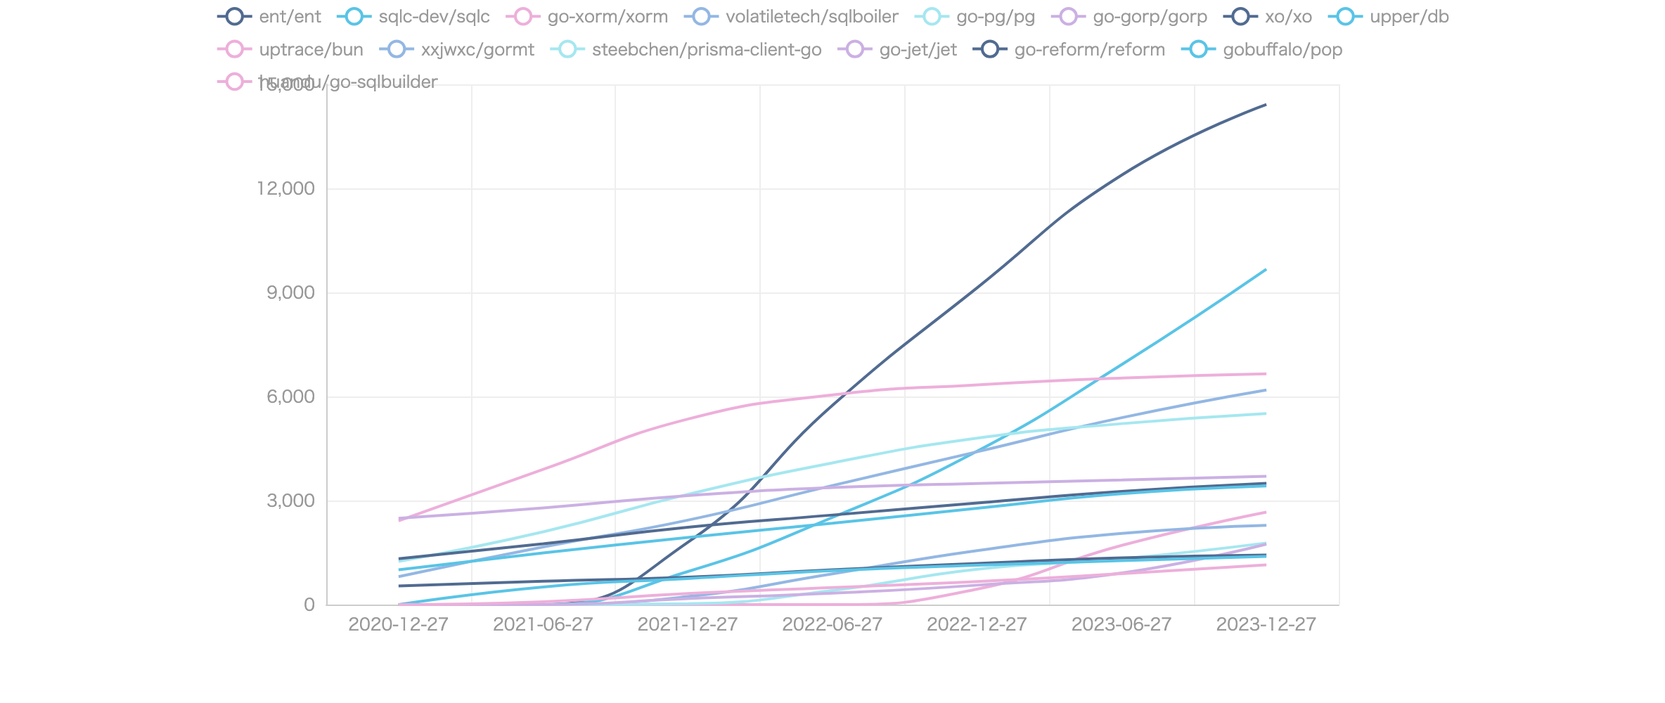
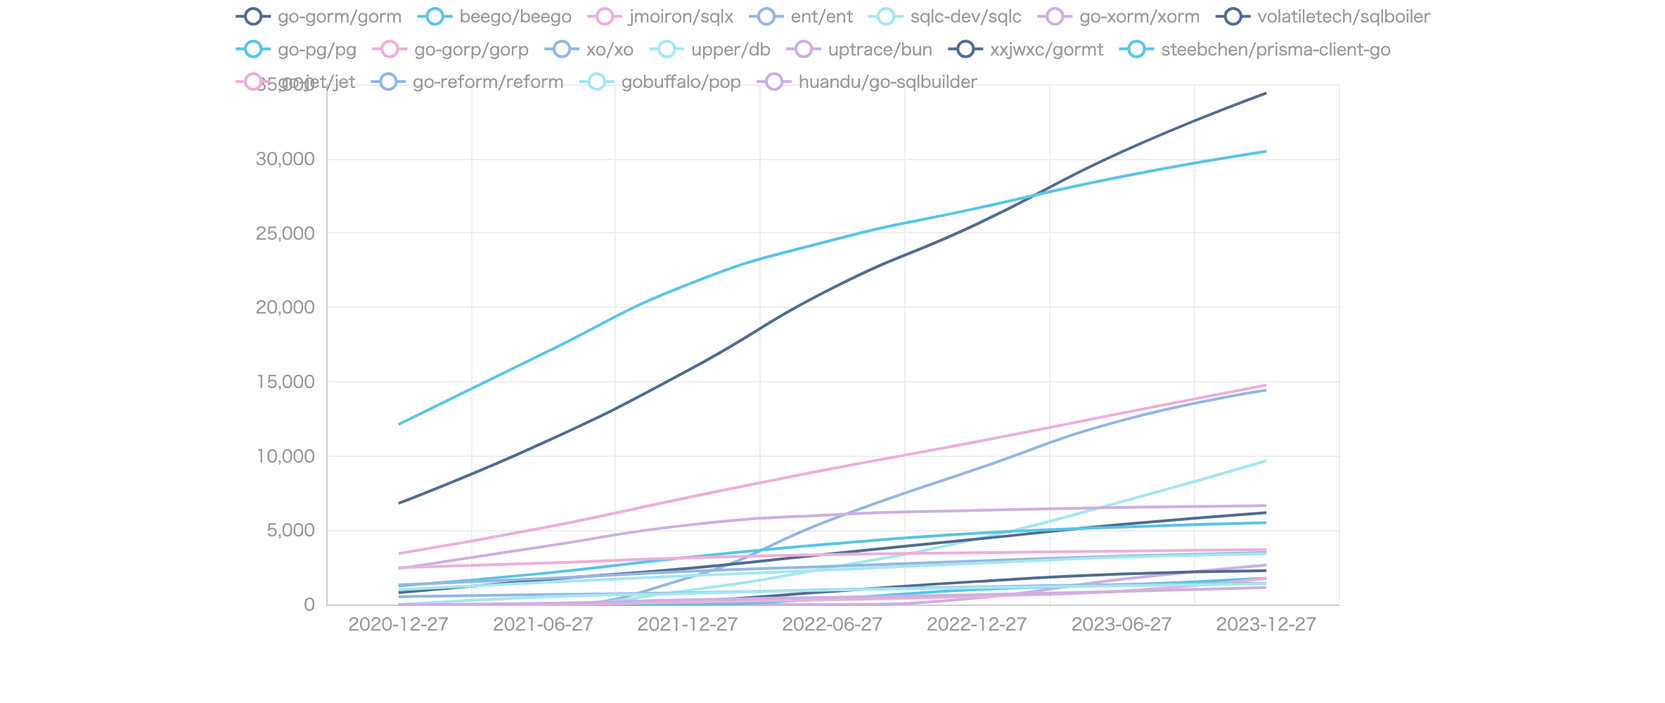
Update README.md

diff --git a/output/orm_chart.html b/output/orm_chart.html
@@ -10,20 +10,20 @@
 
 <body>
 <div class="container">
-    <div class="item" id="eJDDOTwpTecZ" style="width:900px;height:500px;"></div>
+    <div class="item" id="tvAAJPtRdupE" style="width:900px;height:500px;"></div>
 </div>
 
 <script type="text/javascript">
     "use strict";
-    let goecharts_eJDDOTwpTecZ = echarts.init(document.getElementById('eJDDOTwpTecZ'), "westeros");
-    let option_eJDDOTwpTecZ = {"dataset":{"source":null},"legend":{"show":true,"type":""},"series":[{"name":"ent/ent","type":"line","smooth":true,"connectNulls":false,"showSymbol":false,"waveAnimation":false,"renderLabelForZeroData":false,"selectedMode":false,"animation":false,"data":[{"value":0,"XAxisIndex":0,"YAxisIndex":0},{"value":0,"XAxisIndex":0,"YAxisIndex":0},{"value":1795,"XAxisIndex":0,"YAxisIndex":0},{"value":5747,"XAxisIndex":0,"YAxisIndex":0},{"value":9133,"XAxisIndex":0,"YAxisIndex":0},{"value":12385,"XAxisIndex":0,"YAxisIndex":0},{"value":14422,"XAxisIndex":0,"YAxisIndex":0}]},{"name":"sqlc-dev/sqlc","type":"line","smooth":true,"connectNulls":false,"showSymbol":false,"waveAnimation":false,"renderLabelForZeroData":false,"selectedMode":false,"animation":false,"data":[{"value":0,"XAxisIndex":0,"YAxisIndex":0},{"value":0,"XAxisIndex":0,"YAxisIndex":0},{"value":952,"XAxisIndex":0,"YAxisIndex":0},{"value":2514,"XAxisIndex":0,"YAxisIndex":0},{"value":4422,"XAxisIndex":0,"YAxisIndex":0},{"value":6923,"XAxisIndex":0,"YAxisIndex":0},{"value":9672,"XAxisIndex":0,"YAxisIndex":0}]},{"name":"go-xorm/xorm","type":"line","smooth":true,"connectNulls":false,"showSymbol":false,"waveAnimation":false,"renderLabelForZeroData":false,"selectedMode":false,"animation":false,"data":[{"value":2416,"XAxisIndex":0,"YAxisIndex":0},{"value":3898,"XAxisIndex":0,"YAxisIndex":0},{"value":5349,"XAxisIndex":0,"YAxisIndex":0},{"value":6045,"XAxisIndex":0,"YAxisIndex":0},{"value":6335,"XAxisIndex":0,"YAxisIndex":0},{"value":6533,"XAxisIndex":0,"YAxisIndex":0},{"value":6653,"XAxisIndex":0,"YAxisIndex":0}]},{"name":"volatiletech/sqlboiler","type":"line","smooth":true,"connectNulls":false,"showSymbol":false,"waveAnimation":false,"renderLabelForZeroData":false,"selectedMode":false,"animation":false,"data":[{"value":805,"XAxisIndex":0,"YAxisIndex":0},{"value":1661,"XAxisIndex":0,"YAxisIndex":0},{"value":2435,"XAxisIndex":0,"YAxisIndex":0},{"value":3434,"XAxisIndex":0,"YAxisIndex":0},{"value":4406,"XAxisIndex":0,"YAxisIndex":0},{"value":5389,"XAxisIndex":0,"YAxisIndex":0},{"value":6189,"XAxisIndex":0,"YAxisIndex":0}]},{"name":"go-pg/pg","type":"line","smooth":true,"connectNulls":false,"showSymbol":false,"waveAnimation":false,"renderLabelForZeroData":false,"selectedMode":false,"animation":false,"data":[{"value":1248,"XAxisIndex":0,"YAxisIndex":0},{"value":2099,"XAxisIndex":0,"YAxisIndex":0},{"value":3179,"XAxisIndex":0,"YAxisIndex":0},{"value":4086,"XAxisIndex":0,"YAxisIndex":0},{"value":4799,"XAxisIndex":0,"YAxisIndex":0},{"value":5217,"XAxisIndex":0,"YAxisIndex":0},{"value":5510,"XAxisIndex":0,"YAxisIndex":0}]},{"name":"go-gorp/gorp","type":"line","smooth":true,"connectNulls":false,"showSymbol":false,"waveAnimation":false,"renderLabelForZeroData":false,"selectedMode":false,"animation":false,"data":[{"value":2487,"XAxisIndex":0,"YAxisIndex":0},{"value":2787,"XAxisIndex":0,"YAxisIndex":0},{"value":3144,"XAxisIndex":0,"YAxisIndex":0},{"value":3374,"XAxisIndex":0,"YAxisIndex":0},{"value":3493,"XAxisIndex":0,"YAxisIndex":0},{"value":3592,"XAxisIndex":0,"YAxisIndex":0},{"value":3701,"XAxisIndex":0,"YAxisIndex":0}]},{"name":"xo/xo","type":"line","smooth":true,"connectNulls":false,"showSymbol":false,"waveAnimation":false,"renderLabelForZeroData":false,"selectedMode":false,"animation":false,"data":[{"value":1322,"XAxisIndex":0,"YAxisIndex":0},{"value":1754,"XAxisIndex":0,"YAxisIndex":0},{"value":2232,"XAxisIndex":0,"YAxisIndex":0},{"value":2582,"XAxisIndex":0,"YAxisIndex":0},{"value":2928,"XAxisIndex":0,"YAxisIndex":0},{"value":3262,"XAxisIndex":0,"YAxisIndex":0},{"value":3496,"XAxisIndex":0,"YAxisIndex":0}]},{"name":"upper/db","type":"line","smooth":true,"connectNulls":false,"showSymbol":false,"waveAnimation":false,"renderLabelForZeroData":false,"selectedMode":false,"animation":false,"data":[{"value":1002,"XAxisIndex":0,"YAxisIndex":0},{"value":1490,"XAxisIndex":0,"YAxisIndex":0},{"value":1934,"XAxisIndex":0,"YAxisIndex":0},{"value":2347,"XAxisIndex":0,"YAxisIndex":0},{"value":2776,"XAxisIndex":0,"YAxisIndex":0},{"value":3196,"XAxisIndex":0,"YAxisIndex":0},{"value":3422,"XAxisIndex":0,"YAxisIndex":0}]},{"name":"uptrace/bun","type":"line","smooth":true,"connectNulls":false,"showSymbol":false,"waveAnimation":false,"renderLabelForZeroData":false,"selectedMode":false,"animation":false,"data":[{"value":0,"XAxisIndex":0,"YAxisIndex":0},{"value":0,"XAxisIndex":0,"YAxisIndex":0},{"value":0,"XAxisIndex":0,"YAxisIndex":0},{"value":0,"XAxisIndex":0,"YAxisIndex":0},{"value":447,"XAxisIndex":0,"YAxisIndex":0},{"value":1707,"XAxisIndex":0,"YAxisIndex":0},{"value":2665,"XAxisIndex":0,"YAxisIndex":0}]},{"name":"xxjwxc/gormt","type":"line","smooth":true,"connectNulls":false,"showSymbol":false,"waveAnimation":false,"renderLabelForZeroData":false,"selectedMode":false,"animation":false,"data":[{"value":0,"XAxisIndex":0,"YAxisIndex":0},{"value":0,"XAxisIndex":0,"YAxisIndex":0},{"value":231,"XAxisIndex":0,"YAxisIndex":0},{"value":887,"XAxisIndex":0,"YAxisIndex":0},{"value":1555,"XAxisIndex":0,"YAxisIndex":0},{"value":2052,"XAxisIndex":0,"YAxisIndex":0},{"value":2284,"XAxisIndex":0,"YAxisIndex":0}]},{"name":"steebchen/prisma-client-go","type":"line","smooth":true,"connectNulls":false,"showSymbol":false,"waveAnimation":false,"renderLabelForZeroData":false,"selectedMode":false,"animation":false,"data":[{"value":0,"XAxisIndex":0,"YAxisIndex":0},{"value":0,"XAxisIndex":0,"YAxisIndex":0},{"value":25,"XAxisIndex":0,"YAxisIndex":0},{"value":405,"XAxisIndex":0,"YAxisIndex":0},{"value":1019,"XAxisIndex":0,"YAxisIndex":0},{"value":1322,"XAxisIndex":0,"YAxisIndex":0},{"value":1776,"XAxisIndex":0,"YAxisIndex":0}]},{"name":"go-jet/jet","type":"line","smooth":true,"connectNulls":false,"showSymbol":false,"waveAnimation":false,"renderLabelForZeroData":false,"selectedMode":false,"animation":false,"data":[{"value":0,"XAxisIndex":0,"YAxisIndex":0},{"value":0,"XAxisIndex":0,"YAxisIndex":0},{"value":171,"XAxisIndex":0,"YAxisIndex":0},{"value":329,"XAxisIndex":0,"YAxisIndex":0},{"value":560,"XAxisIndex":0,"YAxisIndex":0},{"value":912,"XAxisIndex":0,"YAxisIndex":0},{"value":1744,"XAxisIndex":0,"YAxisIndex":0}]},{"name":"go-reform/reform","type":"line","smooth":true,"connectNulls":false,"showSymbol":false,"waveAnimation":false,"renderLabelForZeroData":false,"selectedMode":false,"animation":false,"data":[{"value":535,"XAxisIndex":0,"YAxisIndex":0},{"value":672,"XAxisIndex":0,"YAxisIndex":0},{"value":793,"XAxisIndex":0,"YAxisIndex":0},{"value":1002,"XAxisIndex":0,"YAxisIndex":0},{"value":1185,"XAxisIndex":0,"YAxisIndex":0},{"value":1347,"XAxisIndex":0,"YAxisIndex":0},{"value":1427,"XAxisIndex":0,"YAxisIndex":0}]},{"name":"gobuffalo/pop","type":"line","smooth":true,"connectNulls":false,"showSymbol":false,"waveAnimation":false,"renderLabelForZeroData":false,"selectedMode":false,"animation":false,"data":[{"value":0,"XAxisIndex":0,"YAxisIndex":0},{"value":509,"XAxisIndex":0,"YAxisIndex":0},{"value":750,"XAxisIndex":0,"YAxisIndex":0},{"value":980,"XAxisIndex":0,"YAxisIndex":0},{"value":1134,"XAxisIndex":0,"YAxisIndex":0},{"value":1267,"XAxisIndex":0,"YAxisIndex":0},{"value":1390,"XAxisIndex":0,"YAxisIndex":0}]},{"name":"huandu/go-sqlbuilder","type":"line","smooth":true,"connectNulls":false,"showSymbol":false,"waveAnimation":false,"renderLabelForZeroData":false,"selectedMode":false,"animation":false,"data":[{"value":0,"XAxisIndex":0,"YAxisIndex":0},{"value":81,"XAxisIndex":0,"YAxisIndex":0},{"value":317,"XAxisIndex":0,"YAxisIndex":0},{"value":490,"XAxisIndex":0,"YAxisIndex":0},{"value":663,"XAxisIndex":0,"YAxisIndex":0},{"value":891,"XAxisIndex":0,"YAxisIndex":0},{"value":1145,"XAxisIndex":0,"YAxisIndex":0}]}],"title":{},"tooltip":{"show":false},"xAxis":[{"data":["2020-12-27","2021-06-27","2021-12-27","2022-06-27","2022-12-27","2023-06-27","2023-12-27"]}],"yAxis":[{}]}
+    let goecharts_tvAAJPtRdupE = echarts.init(document.getElementById('tvAAJPtRdupE'), "westeros");
+    let option_tvAAJPtRdupE = {"dataset":{"source":null},"legend":{"show":true,"type":""},"series":[{"name":"go-gorm/gorm","type":"line","smooth":true,"connectNulls":false,"showSymbol":false,"waveAnimation":false,"renderLabelForZeroData":false,"selectedMode":false,"animation":false,"data":[{"value":6811,"XAxisIndex":0,"YAxisIndex":0},{"value":10882,"XAxisIndex":0,"YAxisIndex":0},{"value":15750,"XAxisIndex":0,"YAxisIndex":0},{"value":21294,"XAxisIndex":0,"YAxisIndex":0},{"value":25607,"XAxisIndex":0,"YAxisIndex":0},{"value":30458,"XAxisIndex":0,"YAxisIndex":0},{"value":34418,"XAxisIndex":0,"YAxisIndex":0}]},{"name":"beego/beego","type":"line","smooth":true,"connectNulls":false,"showSymbol":false,"waveAnimation":false,"renderLabelForZeroData":false,"selectedMode":false,"animation":false,"data":[{"value":12120,"XAxisIndex":0,"YAxisIndex":0},{"value":16884,"XAxisIndex":0,"YAxisIndex":0},{"value":21535,"XAxisIndex":0,"YAxisIndex":0},{"value":24522,"XAxisIndex":0,"YAxisIndex":0},{"value":26668,"XAxisIndex":0,"YAxisIndex":0},{"value":28796,"XAxisIndex":0,"YAxisIndex":0},{"value":30497,"XAxisIndex":0,"YAxisIndex":0}]},{"name":"jmoiron/sqlx","type":"line","smooth":true,"connectNulls":false,"showSymbol":false,"waveAnimation":false,"renderLabelForZeroData":false,"selectedMode":false,"animation":false,"data":[{"value":3433,"XAxisIndex":0,"YAxisIndex":0},{"value":5164,"XAxisIndex":0,"YAxisIndex":0},{"value":7203,"XAxisIndex":0,"YAxisIndex":0},{"value":9148,"XAxisIndex":0,"YAxisIndex":0},{"value":10958,"XAxisIndex":0,"YAxisIndex":0},{"value":12884,"XAxisIndex":0,"YAxisIndex":0},{"value":14770,"XAxisIndex":0,"YAxisIndex":0}]},{"name":"ent/ent","type":"line","smooth":true,"connectNulls":false,"showSymbol":false,"waveAnimation":false,"renderLabelForZeroData":false,"selectedMode":false,"animation":false,"data":[{"value":0,"XAxisIndex":0,"YAxisIndex":0},{"value":0,"XAxisIndex":0,"YAxisIndex":0},{"value":1795,"XAxisIndex":0,"YAxisIndex":0},{"value":5747,"XAxisIndex":0,"YAxisIndex":0},{"value":9133,"XAxisIndex":0,"YAxisIndex":0},{"value":12386,"XAxisIndex":0,"YAxisIndex":0},{"value":14422,"XAxisIndex":0,"YAxisIndex":0}]},{"name":"sqlc-dev/sqlc","type":"line","smooth":true,"connectNulls":false,"showSymbol":false,"waveAnimation":false,"renderLabelForZeroData":false,"selectedMode":false,"animation":false,"data":[{"value":0,"XAxisIndex":0,"YAxisIndex":0},{"value":0,"XAxisIndex":0,"YAxisIndex":0},{"value":952,"XAxisIndex":0,"YAxisIndex":0},{"value":2514,"XAxisIndex":0,"YAxisIndex":0},{"value":4423,"XAxisIndex":0,"YAxisIndex":0},{"value":6923,"XAxisIndex":0,"YAxisIndex":0},{"value":9672,"XAxisIndex":0,"YAxisIndex":0}]},{"name":"go-xorm/xorm","type":"line","smooth":true,"connectNulls":false,"showSymbol":false,"waveAnimation":false,"renderLabelForZeroData":false,"selectedMode":false,"animation":false,"data":[{"value":2417,"XAxisIndex":0,"YAxisIndex":0},{"value":3898,"XAxisIndex":0,"YAxisIndex":0},{"value":5350,"XAxisIndex":0,"YAxisIndex":0},{"value":6045,"XAxisIndex":0,"YAxisIndex":0},{"value":6335,"XAxisIndex":0,"YAxisIndex":0},{"value":6533,"XAxisIndex":0,"YAxisIndex":0},{"value":6653,"XAxisIndex":0,"YAxisIndex":0}]},{"name":"volatiletech/sqlboiler","type":"line","smooth":true,"connectNulls":false,"showSymbol":false,"waveAnimation":false,"renderLabelForZeroData":false,"selectedMode":false,"animation":false,"data":[{"value":805,"XAxisIndex":0,"YAxisIndex":0},{"value":1661,"XAxisIndex":0,"YAxisIndex":0},{"value":2435,"XAxisIndex":0,"YAxisIndex":0},{"value":3434,"XAxisIndex":0,"YAxisIndex":0},{"value":4406,"XAxisIndex":0,"YAxisIndex":0},{"value":5389,"XAxisIndex":0,"YAxisIndex":0},{"value":6189,"XAxisIndex":0,"YAxisIndex":0}]},{"name":"go-pg/pg","type":"line","smooth":true,"connectNulls":false,"showSymbol":false,"waveAnimation":false,"renderLabelForZeroData":false,"selectedMode":false,"animation":false,"data":[{"value":1248,"XAxisIndex":0,"YAxisIndex":0},{"value":2099,"XAxisIndex":0,"YAxisIndex":0},{"value":3179,"XAxisIndex":0,"YAxisIndex":0},{"value":4086,"XAxisIndex":0,"YAxisIndex":0},{"value":4799,"XAxisIndex":0,"YAxisIndex":0},{"value":5217,"XAxisIndex":0,"YAxisIndex":0},{"value":5510,"XAxisIndex":0,"YAxisIndex":0}]},{"name":"go-gorp/gorp","type":"line","smooth":true,"connectNulls":false,"showSymbol":false,"waveAnimation":false,"renderLabelForZeroData":false,"selectedMode":false,"animation":false,"data":[{"value":2487,"XAxisIndex":0,"YAxisIndex":0},{"value":2787,"XAxisIndex":0,"YAxisIndex":0},{"value":3144,"XAxisIndex":0,"YAxisIndex":0},{"value":3374,"XAxisIndex":0,"YAxisIndex":0},{"value":3493,"XAxisIndex":0,"YAxisIndex":0},{"value":3592,"XAxisIndex":0,"YAxisIndex":0},{"value":3701,"XAxisIndex":0,"YAxisIndex":0}]},{"name":"xo/xo","type":"line","smooth":true,"connectNulls":false,"showSymbol":false,"waveAnimation":false,"renderLabelForZeroData":false,"selectedMode":false,"animation":false,"data":[{"value":1322,"XAxisIndex":0,"YAxisIndex":0},{"value":1754,"XAxisIndex":0,"YAxisIndex":0},{"value":2232,"XAxisIndex":0,"YAxisIndex":0},{"value":2582,"XAxisIndex":0,"YAxisIndex":0},{"value":2928,"XAxisIndex":0,"YAxisIndex":0},{"value":3262,"XAxisIndex":0,"YAxisIndex":0},{"value":3496,"XAxisIndex":0,"YAxisIndex":0}]},{"name":"upper/db","type":"line","smooth":true,"connectNulls":false,"showSymbol":false,"waveAnimation":false,"renderLabelForZeroData":false,"selectedMode":false,"animation":false,"data":[{"value":1002,"XAxisIndex":0,"YAxisIndex":0},{"value":1490,"XAxisIndex":0,"YAxisIndex":0},{"value":1934,"XAxisIndex":0,"YAxisIndex":0},{"value":2347,"XAxisIndex":0,"YAxisIndex":0},{"value":2776,"XAxisIndex":0,"YAxisIndex":0},{"value":3196,"XAxisIndex":0,"YAxisIndex":0},{"value":3422,"XAxisIndex":0,"YAxisIndex":0}]},{"name":"uptrace/bun","type":"line","smooth":true,"connectNulls":false,"showSymbol":false,"waveAnimation":false,"renderLabelForZeroData":false,"selectedMode":false,"animation":false,"data":[{"value":0,"XAxisIndex":0,"YAxisIndex":0},{"value":0,"XAxisIndex":0,"YAxisIndex":0},{"value":0,"XAxisIndex":0,"YAxisIndex":0},{"value":0,"XAxisIndex":0,"YAxisIndex":0},{"value":447,"XAxisIndex":0,"YAxisIndex":0},{"value":1707,"XAxisIndex":0,"YAxisIndex":0},{"value":2665,"XAxisIndex":0,"YAxisIndex":0}]},{"name":"xxjwxc/gormt","type":"line","smooth":true,"connectNulls":false,"showSymbol":false,"waveAnimation":false,"renderLabelForZeroData":false,"selectedMode":false,"animation":false,"data":[{"value":0,"XAxisIndex":0,"YAxisIndex":0},{"value":0,"XAxisIndex":0,"YAxisIndex":0},{"value":231,"XAxisIndex":0,"YAxisIndex":0},{"value":887,"XAxisIndex":0,"YAxisIndex":0},{"value":1555,"XAxisIndex":0,"YAxisIndex":0},{"value":2052,"XAxisIndex":0,"YAxisIndex":0},{"value":2284,"XAxisIndex":0,"YAxisIndex":0}]},{"name":"steebchen/prisma-client-go","type":"line","smooth":true,"connectNulls":false,"showSymbol":false,"waveAnimation":false,"renderLabelForZeroData":false,"selectedMode":false,"animation":false,"data":[{"value":0,"XAxisIndex":0,"YAxisIndex":0},{"value":0,"XAxisIndex":0,"YAxisIndex":0},{"value":25,"XAxisIndex":0,"YAxisIndex":0},{"value":405,"XAxisIndex":0,"YAxisIndex":0},{"value":1019,"XAxisIndex":0,"YAxisIndex":0},{"value":1322,"XAxisIndex":0,"YAxisIndex":0},{"value":1776,"XAxisIndex":0,"YAxisIndex":0}]},{"name":"go-jet/jet","type":"line","smooth":true,"connectNulls":false,"showSymbol":false,"waveAnimation":false,"renderLabelForZeroData":false,"selectedMode":false,"animation":false,"data":[{"value":0,"XAxisIndex":0,"YAxisIndex":0},{"value":0,"XAxisIndex":0,"YAxisIndex":0},{"value":171,"XAxisIndex":0,"YAxisIndex":0},{"value":329,"XAxisIndex":0,"YAxisIndex":0},{"value":560,"XAxisIndex":0,"YAxisIndex":0},{"value":912,"XAxisIndex":0,"YAxisIndex":0},{"value":1745,"XAxisIndex":0,"YAxisIndex":0}]},{"name":"go-reform/reform","type":"line","smooth":true,"connectNulls":false,"showSymbol":false,"waveAnimation":false,"renderLabelForZeroData":false,"selectedMode":false,"animation":false,"data":[{"value":535,"XAxisIndex":0,"YAxisIndex":0},{"value":672,"XAxisIndex":0,"YAxisIndex":0},{"value":793,"XAxisIndex":0,"YAxisIndex":0},{"value":1002,"XAxisIndex":0,"YAxisIndex":0},{"value":1185,"XAxisIndex":0,"YAxisIndex":0},{"value":1347,"XAxisIndex":0,"YAxisIndex":0},{"value":1427,"XAxisIndex":0,"YAxisIndex":0}]},{"name":"gobuffalo/pop","type":"line","smooth":true,"connectNulls":false,"showSymbol":false,"waveAnimation":false,"renderLabelForZeroData":false,"selectedMode":false,"animation":false,"data":[{"value":0,"XAxisIndex":0,"YAxisIndex":0},{"value":510,"XAxisIndex":0,"YAxisIndex":0},{"value":750,"XAxisIndex":0,"YAxisIndex":0},{"value":980,"XAxisIndex":0,"YAxisIndex":0},{"value":1134,"XAxisIndex":0,"YAxisIndex":0},{"value":1267,"XAxisIndex":0,"YAxisIndex":0},{"value":1390,"XAxisIndex":0,"YAxisIndex":0}]},{"name":"huandu/go-sqlbuilder","type":"line","smooth":true,"connectNulls":false,"showSymbol":false,"waveAnimation":false,"renderLabelForZeroData":false,"selectedMode":false,"animation":false,"data":[{"value":0,"XAxisIndex":0,"YAxisIndex":0},{"value":81,"XAxisIndex":0,"YAxisIndex":0},{"value":317,"XAxisIndex":0,"YAxisIndex":0},{"value":490,"XAxisIndex":0,"YAxisIndex":0},{"value":663,"XAxisIndex":0,"YAxisIndex":0},{"value":892,"XAxisIndex":0,"YAxisIndex":0},{"value":1146,"XAxisIndex":0,"YAxisIndex":0}]}],"title":{},"tooltip":{"show":false},"xAxis":[{"data":["2020-12-27","2021-06-27","2021-12-27","2022-06-27","2022-12-27","2023-06-27","2023-12-27"]}],"yAxis":[{}]}
 ;
     
-	let action_eJDDOTwpTecZ = {"areas":{},"type":""}
+	let action_tvAAJPtRdupE = {"areas":{},"type":""}
 ;
     
-    goecharts_eJDDOTwpTecZ.setOption(option_eJDDOTwpTecZ);
- 	goecharts_eJDDOTwpTecZ.dispatchAction(action_eJDDOTwpTecZ);
+    goecharts_tvAAJPtRdupE.setOption(option_tvAAJPtRdupE);
+ 	goecharts_tvAAJPtRdupE.dispatchAction(action_tvAAJPtRdupE);
 </script>
 
 <style>

diff --git a/README.md b/README.md
@@ -4,33 +4,48 @@ If there are any other public repositories of golang orMapper, I'd be glad to he
 [![Start数チャート](output/orm_chart.jpeg)](https://ryotaroseto.github.io/star-golang-orms/output/orm_chart.html)
 | No. | Project Name | Stars | Subscribers | Forks | Open Issues | Description | Createdate | Last Update |
 | --- | ------------ | ----- | ----------- | ----- | ----------- | ----------- | ----------- | ----------- |
-| 1 | [ent/ent](https://github.com/ent/ent) | 14422 | 152 | 908 | 396 | An entity framework for Go | 2019-06-12 22:53:55 | 2023-12-27 02:12:44 |
-| 2 | [sqlc-dev/sqlc](https://github.com/sqlc-dev/sqlc) | 9672 | 69 | 655 | 221 | Generate type-safe code from SQL | 2019-06-21 21:11:35 | 2023-12-26 19:46:08 |
-| 3 | [go-xorm/xorm](https://github.com/go-xorm/xorm) | 6653 | 266 | 770 | 307 | Simple and Powerful ORM for Go, support mysql,postgres,tidb,sqlite3,mssql,oracle, Moved to https://gitea.com/xorm/xorm | 2013-05-09 02:35:04 | 2023-12-26 11:00:08 |
-| 4 | [volatiletech/sqlboiler](https://github.com/volatiletech/sqlboiler) | 6189 | 75 | 562 | 99 | Generate a Go ORM tailored to your database schema. | 2016-02-21 06:18:25 | 2023-12-27 02:54:12 |
-| 5 | [go-pg/pg](https://github.com/go-pg/pg) | 5510 | 88 | 405 | 115 | Golang ORM with focus on PostgreSQL features and performance | 2013-04-24 12:31:41 | 2023-12-27 00:04:23 |
-| 6 | [go-gorp/gorp](https://github.com/go-gorp/gorp) | 3701 | 106 | 414 | 146 | Go Relational Persistence - an ORM-ish library for Go | 2012-01-04 19:50:09 | 2023-12-27 03:17:31 |
-| 7 | [xo/xo](https://github.com/xo/xo) | 3496 | 71 | 312 | 41 | Command line tool to generate idiomatic Go code for SQL databases supporting PostgreSQL, MySQL, SQLite, Oracle, and Microsoft SQL Server | 2016-02-05 10:22:20 | 2023-12-27 03:17:19 |
-| 8 | [upper/db](https://github.com/upper/db) | 3422 | 59 | 241 | 153 | Data access layer for PostgreSQL, CockroachDB, MySQL, SQLite and MongoDB with ORM-like features. | 2013-10-23 02:04:36 | 2023-12-26 21:50:20 |
-| 9 | [uptrace/bun](https://github.com/uptrace/bun) | 2665 | 25 | 176 | 146 | SQL-first Golang ORM | 2021-05-03 11:40:52 | 2023-12-26 16:47:51 |
-| 10 | [xxjwxc/gormt](https://github.com/xxjwxc/gormt) | 2284 | 23 | 375 | 58 | database to golang struct | 2019-05-05 13:10:26 | 2023-12-25 15:24:52 |
-| 11 | [steebchen/prisma-client-go](https://github.com/steebchen/prisma-client-go) | 1776 | 27 | 89 | 96 | Prisma Client Go is an auto-generated and fully type-safe database client | 2019-09-24 12:17:03 | 2023-12-25 14:22:34 |
-| 12 | [go-jet/jet](https://github.com/go-jet/jet) | 1744 | 23 | 100 | 39 | Type safe SQL builder with code generation and automatic query result data mapping | 2019-03-02 11:06:23 | 2023-12-26 14:29:08 |
-| 13 | [go-reform/reform](https://github.com/go-reform/reform) | 1427 | 25 | 73 | 86 | A better ORM for Go, based on non-empty interfaces and code generation. | 2016-02-25 09:41:09 | 2023-12-21 17:03:32 |
-| 14 | [gobuffalo/pop](https://github.com/gobuffalo/pop) | 1390 | 22 | 248 | 95 | A Tasty Treat For All Your Database Needs | 2018-02-07 21:13:46 | 2023-12-20 03:29:28 |
-| 15 | [huandu/go-sqlbuilder](https://github.com/huandu/go-sqlbuilder) | 1145 | 12 | 107 | 5 | A flexible and powerful SQL string builder library plus a zero-config ORM. | 2017-12-27 16:37:48 | 2023-12-26 07:03:10 |
+| 1 | [go-gorm/gorm](https://github.com/go-gorm/gorm) | 34418 | 497 | 3823 | 294 | The fantastic ORM library for Golang, aims to be developer friendly | 2013-10-25 08:31:38 | 2023-12-27 03:17:32 |
+| 2 | [beego/beego](https://github.com/beego/beego) | 30497 | 1199 | 5692 | 13 | beego is an open-source, high-performance web framework for the Go programming language. | 2012-02-29 02:32:08 | 2023-12-27 00:01:09 |
+| 3 | [jmoiron/sqlx](https://github.com/jmoiron/sqlx) | 14770 | 198 | 1057 | 346 | general purpose extensions to golang's database/sql | 2013-01-28 19:40:00 | 2023-12-26 22:10:22 |
+| 4 | [ent/ent](https://github.com/ent/ent) | 14422 | 152 | 908 | 396 | An entity framework for Go | 2019-06-12 22:53:55 | 2023-12-27 02:12:44 |
+| 5 | [sqlc-dev/sqlc](https://github.com/sqlc-dev/sqlc) | 9672 | 69 | 655 | 221 | Generate type-safe code from SQL | 2019-06-21 21:11:35 | 2023-12-26 19:46:08 |
+| 6 | [go-xorm/xorm](https://github.com/go-xorm/xorm) | 6653 | 266 | 770 | 307 | Simple and Powerful ORM for Go, support mysql,postgres,tidb,sqlite3,mssql,oracle, Moved to https://gitea.com/xorm/xorm | 2013-05-09 02:35:04 | 2023-12-26 11:00:08 |
+| 7 | [volatiletech/sqlboiler](https://github.com/volatiletech/sqlboiler) | 6189 | 75 | 562 | 99 | Generate a Go ORM tailored to your database schema. | 2016-02-21 06:18:25 | 2023-12-27 02:54:12 |
+| 8 | [go-pg/pg](https://github.com/go-pg/pg) | 5510 | 88 | 405 | 115 | Golang ORM with focus on PostgreSQL features and performance | 2013-04-24 12:31:41 | 2023-12-27 00:04:23 |
+| 9 | [go-gorp/gorp](https://github.com/go-gorp/gorp) | 3701 | 106 | 414 | 146 | Go Relational Persistence - an ORM-ish library for Go | 2012-01-04 19:50:09 | 2023-12-27 03:17:31 |
+| 10 | [xo/xo](https://github.com/xo/xo) | 3496 | 71 | 312 | 41 | Command line tool to generate idiomatic Go code for SQL databases supporting PostgreSQL, MySQL, SQLite, Oracle, and Microsoft SQL Server | 2016-02-05 10:22:20 | 2023-12-27 03:17:19 |
+| 11 | [upper/db](https://github.com/upper/db) | 3422 | 59 | 241 | 153 | Data access layer for PostgreSQL, CockroachDB, MySQL, SQLite and MongoDB with ORM-like features. | 2013-10-23 02:04:36 | 2023-12-26 21:50:20 |
+| 12 | [uptrace/bun](https://github.com/uptrace/bun) | 2665 | 25 | 176 | 146 | SQL-first Golang ORM | 2021-05-03 11:40:52 | 2023-12-26 16:47:51 |
+| 13 | [xxjwxc/gormt](https://github.com/xxjwxc/gormt) | 2284 | 23 | 375 | 58 | database to golang struct | 2019-05-05 13:10:26 | 2023-12-25 15:24:52 |
+| 14 | [steebchen/prisma-client-go](https://github.com/steebchen/prisma-client-go) | 1776 | 27 | 89 | 96 | Prisma Client Go is an auto-generated and fully type-safe database client | 2019-09-24 12:17:03 | 2023-12-25 14:22:34 |
+| 15 | [go-jet/jet](https://github.com/go-jet/jet) | 1745 | 23 | 100 | 39 | Type safe SQL builder with code generation and automatic query result data mapping | 2019-03-02 11:06:23 | 2023-12-27 04:04:28 |
+| 16 | [go-reform/reform](https://github.com/go-reform/reform) | 1427 | 25 | 73 | 86 | A better ORM for Go, based on non-empty interfaces and code generation. | 2016-02-25 09:41:09 | 2023-12-21 17:03:32 |
+| 17 | [gobuffalo/pop](https://github.com/gobuffalo/pop) | 1390 | 22 | 248 | 95 | A Tasty Treat For All Your Database Needs | 2018-02-07 21:13:46 | 2023-12-20 03:29:28 |
+| 18 | [huandu/go-sqlbuilder](https://github.com/huandu/go-sqlbuilder) | 1146 | 12 | 107 | 5 | A flexible and powerful SQL string builder library plus a zero-config ORM. | 2017-12-27 16:37:48 | 2023-12-27 03:54:59 |
+## [go-gorm/gorm](https://github.com/go-gorm/gorm)
+| 2020-12-27 | 2021-06-27 | 2021-12-27 | 2022-06-27 | 2022-12-27 | 2023-06-27 | 2023-12-27 |
+| --- | --- | --- | --- | --- | --- | --- |
+| 6811 | 10882 | 15750 | 21294 | 25607 | 30458 | 34418 |
+## [beego/beego](https://github.com/beego/beego)
+| 2020-12-27 | 2021-06-27 | 2021-12-27 | 2022-06-27 | 2022-12-27 | 2023-06-27 | 2023-12-27 |
+| --- | --- | --- | --- | --- | --- | --- |
+| 12120 | 16884 | 21535 | 24522 | 26668 | 28796 | 30497 |
+## [jmoiron/sqlx](https://github.com/jmoiron/sqlx)
+| 2020-12-27 | 2021-06-27 | 2021-12-27 | 2022-06-27 | 2022-12-27 | 2023-06-27 | 2023-12-27 |
+| --- | --- | --- | --- | --- | --- | --- |
+| 3433 | 5164 | 7203 | 9148 | 10958 | 12884 | 14770 |
 ## [ent/ent](https://github.com/ent/ent)
 | 2020-12-27 | 2021-06-27 | 2021-12-27 | 2022-06-27 | 2022-12-27 | 2023-06-27 | 2023-12-27 |
 | --- | --- | --- | --- | --- | --- | --- |
-| - | - | 1795 | 5747 | 9133 | 12385 | 14422 |
+| - | - | 1795 | 5747 | 9133 | 12386 | 14422 |
 ## [sqlc-dev/sqlc](https://github.com/sqlc-dev/sqlc)
 | 2020-12-27 | 2021-06-27 | 2021-12-27 | 2022-06-27 | 2022-12-27 | 2023-06-27 | 2023-12-27 |
 | --- | --- | --- | --- | --- | --- | --- |
-| - | - | 952 | 2514 | 4422 | 6923 | 9672 |
+| - | - | 952 | 2514 | 4423 | 6923 | 9672 |
 ## [go-xorm/xorm](https://github.com/go-xorm/xorm)
 | 2020-12-27 | 2021-06-27 | 2021-12-27 | 2022-06-27 | 2022-12-27 | 2023-06-27 | 2023-12-27 |
 | --- | --- | --- | --- | --- | --- | --- |
-| 2416 | 3898 | 5349 | 6045 | 6335 | 6533 | 6653 |
+| 2417 | 3898 | 5350 | 6045 | 6335 | 6533 | 6653 |
 ## [volatiletech/sqlboiler](https://github.com/volatiletech/sqlboiler)
 | 2020-12-27 | 2021-06-27 | 2021-12-27 | 2022-06-27 | 2022-12-27 | 2023-06-27 | 2023-12-27 |
 | --- | --- | --- | --- | --- | --- | --- |
@@ -66,7 +81,7 @@ If there are any other public repositories of golang orMapper, I'd be glad to he
 ## [go-jet/jet](https://github.com/go-jet/jet)
 | 2020-12-27 | 2021-06-27 | 2021-12-27 | 2022-06-27 | 2022-12-27 | 2023-06-27 | 2023-12-27 |
 | --- | --- | --- | --- | --- | --- | --- |
-| - | - | 171 | 329 | 560 | 912 | 1744 |
+| - | - | 171 | 329 | 560 | 912 | 1745 |
 ## [go-reform/reform](https://github.com/go-reform/reform)
 | 2020-12-27 | 2021-06-27 | 2021-12-27 | 2022-06-27 | 2022-12-27 | 2023-06-27 | 2023-12-27 |
 | --- | --- | --- | --- | --- | --- | --- |
@@ -74,8 +89,8 @@ If there are any other public repositories of golang orMapper, I'd be glad to he
 ## [gobuffalo/pop](https://github.com/gobuffalo/pop)
 | 2020-12-27 | 2021-06-27 | 2021-12-27 | 2022-06-27 | 2022-12-27 | 2023-06-27 | 2023-12-27 |
 | --- | --- | --- | --- | --- | --- | --- |
-| - | 509 | 750 | 980 | 1134 | 1267 | 1390 |
+| - | 510 | 750 | 980 | 1134 | 1267 | 1390 |
 ## [huandu/go-sqlbuilder](https://github.com/huandu/go-sqlbuilder)
 | 2020-12-27 | 2021-06-27 | 2021-12-27 | 2022-06-27 | 2022-12-27 | 2023-06-27 | 2023-12-27 |
 | --- | --- | --- | --- | --- | --- | --- |
-| - | 81 | 317 | 490 | 663 | 891 | 1145 |
+| - | 81 | 317 | 490 | 663 | 892 | 1146 |
